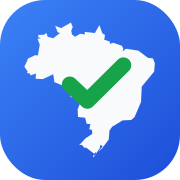
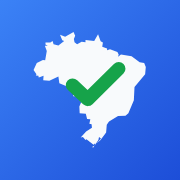
PWA: app instalável (manifesto, ícones maskable/apple, service worker só do casco, página offline, aviso de atualização, convite de instalação Android/iOS, downloads via Compartilhar no iOS standalone, cabeçalho cabe em 360–430px)

diff --git a/pwa.js b/pwa.js
@@ -1,0 +1,150 @@
+/* Cadê Meu Voto — app instalável (PWA): service worker, aviso "Instalar app", aviso de versão nova e
+ * downloads no iPhone com o app aberto pela Tela de Início (modo standalone). */
+(function (global) {
+  'use strict';
+  const LS_DISPENSA = 'cmv-pwa-instalar-dispensado';
+  const DIAS_DISPENSA = 90;
+  const ua = navigator.userAgent || '';
+  const isIOS = /iP(hone|ad|od)/.test(ua) || (navigator.platform === 'MacIntel' && navigator.maxTouchPoints > 1);
+  const isIOSSafari = isIOS && /Safari/.test(ua) && !/CriOS|FxiOS|EdgiOS|OPiOS|GSA\/|Instagram|FBAN|FBAV|Line\//.test(ua);
+  const standalone = () => (global.matchMedia && global.matchMedia('(display-mode: standalone)').matches) || navigator.standalone === true;
+  let promptEvt = null;
+
+  /* ---------------- estilos ---------------- */
+  const css = `
+  .cmv-pwa,.cmv-pwa *,.cmv-upd,.cmv-upd *,.cmv-dl,.cmv-dl *{box-sizing:border-box}
+  .cmv-pwa{position:fixed;left:16px;bottom:calc(16px + env(safe-area-inset-bottom));z-index:80;max-width:380px;display:flex;gap:12px;align-items:center;
+    background:#111E3A;border:1px solid rgba(148,163,184,.28);border-radius:14px;padding:10px 10px 10px 12px;box-shadow:0 12px 32px rgba(0,0,0,.45);color:#F8FAFC;font-size:.9rem;line-height:1.35}
+  .cmv-pwa img{width:36px;height:36px;border-radius:9px;flex:none}
+  .cmv-pwa .t{flex:1;min-width:0}.cmv-pwa .t b{display:block;font-size:.92rem}.cmv-pwa .t span{color:#94A3B8;font-size:.8rem}
+  .cmv-pwa button{font:inherit;cursor:pointer;border-radius:10px;min-height:40px}
+  .cmv-pwa .ok{background:#22C55E;color:#052E16;border:0;font-weight:700;padding:8px 12px;white-space:nowrap}
+  .cmv-pwa .x{background:none;border:0;color:#94A3B8;font-size:1.35rem;line-height:1;width:36px;padding:0}
+  .cmv-pwa.ios{align-items:flex-start}.cmv-pwa.ios ol{margin:6px 0 0;padding-left:18px;color:#CBD5E1;font-size:.84rem}.cmv-pwa.ios li{margin:2px 0}
+  .cmv-pwa.ios svg{width:15px;height:15px;vertical-align:-2px;margin:0 2px}.cmv-pwa.ios li b{display:inline}
+  .cmv-upd{position:fixed;left:50%;transform:translateX(-50%);top:calc(70px + env(safe-area-inset-top));z-index:90;display:flex;gap:10px;align-items:center;
+    background:#1E3A8A;border:1px solid rgba(147,197,253,.4);border-radius:999px;padding:6px 6px 6px 16px;color:#EFF6FF;font-size:.88rem;box-shadow:0 10px 28px rgba(0,0,0,.45)}
+  .cmv-upd button{font:inherit;font-weight:700;border:0;border-radius:999px;background:#F8FAFC;color:#1E3A8A;padding:7px 14px;cursor:pointer;min-height:36px}
+  .cmv-dl{position:fixed;inset:0;z-index:10000;display:flex;align-items:flex-end;justify-content:center;background:rgba(2,6,23,.6);padding:16px;padding-bottom:calc(16px + env(safe-area-inset-bottom))}
+  .cmv-dl>div{width:100%;max-width:420px;background:#1E293B;border:1px solid rgba(148,163,184,.25);border-radius:16px;padding:18px;color:#F8FAFC}
+  .cmv-dl h2{margin:0 0 6px;font-size:1.1rem}.cmv-dl p{margin:0 0 14px;color:#CBD5E1;font-size:.9rem;line-height:1.45;word-break:break-word}
+  .cmv-dl .acts{display:flex;gap:8px}.cmv-dl button{flex:1;min-height:46px;border-radius:12px;font:inherit;font-weight:700;cursor:pointer}
+  .cmv-dl .ok{background:#22C55E;color:#052E16;border:0}.cmv-dl .sec{background:transparent;color:#E2E8F0;border:1px solid rgba(148,163,184,.4)}
+  @media (max-width:860px){.cmv-pwa{left:12px;right:76px;max-width:none;bottom:calc(var(--bn-h,0px) + 12px + env(safe-area-inset-bottom))}}
+  @media (display-mode: standalone){.site-header{padding-top:env(safe-area-inset-top)!important}}
+  html.cmv-standalone .site-header{padding-top:env(safe-area-inset-top)!important}`;
+  function injectCss() { if (document.getElementById('cmv-pwa-css')) return; const s = document.createElement('style'); s.id = 'cmv-pwa-css'; s.textContent = css; document.head.appendChild(s); }
+
+  /* ---------------- service worker + aviso de versão nova ---------------- */
+  function registrarSW() {
+    if (!('serviceWorker' in navigator) || !global.isSecureContext) return;
+    // 1ª visita: o SW assume a página (clients.claim) sem recarregar; só recarrega quando uma versão nova substitui a anterior
+    let recarregando = false; const tinhaControle = !!navigator.serviceWorker.controller;
+    navigator.serviceWorker.addEventListener('controllerchange', () => { if (recarregando || !tinhaControle) return; recarregando = true; location.reload(); });
+    navigator.serviceWorker.register('/sw.js', { scope: '/', updateViaCache: 'none' }).then(reg => {
+      const avisar = w => { if (w && navigator.serviceWorker.controller) mostrarAtualizar(w); };
+      if (reg.waiting) avisar(reg.waiting);
+      reg.addEventListener('updatefound', () => {
+        const w = reg.installing; if (!w) return;
+        w.addEventListener('statechange', () => { if (w.state === 'installed') avisar(w); });
+      });
+      // verifica deploy novo ao voltar para o app (e a cada 30 min com ele aberto)
+      document.addEventListener('visibilitychange', () => { if (document.visibilityState === 'visible') reg.update().catch(() => {}); });
+      setInterval(() => reg.update().catch(() => {}), 30 * 60 * 1000);
+      global.CMV_PWA.registro = reg;
+    }).catch(e => console.warn('service worker', e));
+  }
+  function mostrarAtualizar(worker) {
+    if (document.getElementById('cmv-upd')) return;
+    injectCss();
+    const d = document.createElement('div'); d.id = 'cmv-upd'; d.className = 'cmv-upd'; d.setAttribute('role', 'status');
+    d.innerHTML = '<span>Nova versão do Cadê Meu Voto</span><button type="button">Atualizar</button>';
+    d.querySelector('button').addEventListener('click', () => { d.querySelector('button').disabled = true; worker.postMessage({ tipo: 'ATUALIZAR' }); });
+    document.body.appendChild(d);
+  }
+
+  /* ---------------- "Instalar app" ---------------- */
+  function dispensado() { try { const t = Number(localStorage.getItem(LS_DISPENSA) || 0); return t && (Date.now() - t) < DIAS_DISPENSA * 864e5; } catch (_) { return false; } }
+  function dispensar() { try { localStorage.setItem(LS_DISPENSA, String(Date.now())); } catch (_) {} fecharAviso(); }
+  function fecharAviso() { const e = document.getElementById('cmv-pwa'); if (e) e.remove(); }
+  const ICONE = '<img src="/brand/icon-192.png?v=20261007pwa1" alt="">';
+  function avisoAndroid() {
+    if (!promptEvt || standalone() || dispensado() || document.getElementById('cmv-pwa')) return;
+    injectCss();
+    const d = document.createElement('div'); d.id = 'cmv-pwa'; d.className = 'cmv-pwa'; d.setAttribute('role', 'dialog'); d.setAttribute('aria-label', 'Instalar o app Cadê Meu Voto');
+    d.innerHTML = ICONE + '<div class="t"><b>Instalar app</b><span>Abra o Cadê Meu Voto direto da tela inicial.</span></div>'
+      + '<button type="button" class="ok">Instalar</button><button type="button" class="x" aria-label="Agora não">×</button>';
+    d.querySelector('.ok').addEventListener('click', async () => {
+      const e = promptEvt; promptEvt = null; fecharAviso();
+      if (!e) return;
+      try { e.prompt(); const r = await e.userChoice; if (r && r.outcome === 'dismissed') dispensar(); } catch (_) {}
+    });
+    d.querySelector('.x').addEventListener('click', dispensar);
+    document.body.appendChild(d);
+  }
+  const SVG_COMPARTILHAR = '<svg viewBox="0 0 24 24" fill="none" stroke="#60A5FA" stroke-width="2" stroke-linecap="round" stroke-linejoin="round" aria-hidden="true"><path d="M12 3v12"/><path d="m7 8 5-5 5 5"/><path d="M5 12v7a2 2 0 0 0 2 2h10a2 2 0 0 0 2-2v-7"/></svg>';
+  const SVG_MAIS = '<svg viewBox="0 0 24 24" fill="none" stroke="#60A5FA" stroke-width="2" stroke-linecap="round" aria-hidden="true"><rect x="3" y="3" width="18" height="18" rx="4"/><path d="M12 8v8M8 12h8"/></svg>';
+  function avisoIOS() {
+    if (!isIOSSafari || standalone() || dispensado() || document.getElementById('cmv-pwa')) return;
+    injectCss();
+    const d = document.createElement('div'); d.id = 'cmv-pwa'; d.className = 'cmv-pwa ios'; d.setAttribute('role', 'dialog'); d.setAttribute('aria-label', 'Instalar o app no iPhone');
+    d.innerHTML = ICONE + '<div class="t"><b>Instale o app no iPhone</b><ol>'
+      + '<li>Toque em <b>Compartilhar</b> ' + SVG_COMPARTILHAR + ' na barra do Safari</li>'
+      + '<li>Escolha <b>Adicionar à Tela de Início</b> ' + SVG_MAIS + '</li></ol></div>'
+      + '<button type="button" class="x" aria-label="Agora não">×</button>';
+    d.querySelector('.x').addEventListener('click', dispensar);
+    document.body.appendChild(d);
+  }
+  global.addEventListener('beforeinstallprompt', e => {
+    e.preventDefault(); promptEvt = e;
+    if (document.readyState === 'loading') document.addEventListener('DOMContentLoaded', () => setTimeout(avisoAndroid, 4000));
+    else setTimeout(avisoAndroid, 4000);
+  });
+  global.addEventListener('appinstalled', () => { promptEvt = null; fecharAviso(); try { localStorage.setItem(LS_DISPENSA, String(Date.now() + 3650 * 864e5)); } catch (_) {} });
+
+  /* ---------------- downloads no iPhone (app aberto pela Tela de Início) ----------------
+   * No modo standalone do iOS, <a download> com blob abre uma prévia sem jeito fácil de salvar ou voltar.
+   * Lá usamos o menu Compartilhar do sistema (Salvar em Arquivos, AirDrop, WhatsApp…). Em todo o resto
+   * (Android, computador, Safari normal) o download continua igual. */
+  const precisaCompartilhar = () => isIOS && standalone();
+  async function compartilhar(file) {
+    try { await navigator.share({ files: [file], title: file.name }); return 'compartilhado'; }
+    catch (e) { if (e && e.name === 'AbortError') return 'cancelado'; throw e; }
+  }
+  function baixarNormal(blob, nome) {
+    const url = URL.createObjectURL(blob); const a = document.createElement('a');
+    a.href = url; a.download = nome; a.rel = 'noopener'; document.body.appendChild(a); a.click(); a.remove();
+    setTimeout(() => URL.revokeObjectURL(url), 60000);
+    return 'baixado';
+  }
+  function modalSalvar(file) {
+    return new Promise(resolve => {
+      injectCss();
+      const m = document.createElement('div'); m.className = 'cmv-dl'; m.setAttribute('role', 'dialog'); m.setAttribute('aria-modal', 'true');
+      m.innerHTML = '<div><h2>Seu arquivo está pronto</h2><p></p><div class="acts"><button type="button" class="sec">Fechar</button><button type="button" class="ok">Salvar ou enviar</button></div></div>';
+      m.querySelector('p').textContent = file.name + ' — toque em “Salvar ou enviar” e escolha “Salvar em Arquivos”, WhatsApp ou outro app.';
+      const fim = r => { m.remove(); resolve(r); };
+      m.querySelector('.sec').addEventListener('click', () => fim('fechado'));
+      m.querySelector('.ok').addEventListener('click', async () => {
+        try { fim(await compartilhar(file)); } catch (_) { fim(baixarNormal(file, file.name)); }
+      });
+      document.body.appendChild(m);
+      setTimeout(() => m.querySelector('.ok').focus(), 30);
+    });
+  }
+  /** Salva um arquivo gerado no aparelho (PDF, Excel, JSON). */
+  async function salvar(blob, nome) {
+    if (!precisaCompartilhar()) return baixarNormal(blob, nome);
+    const file = new File([blob], nome, { type: blob.type || 'application/octet-stream' });
+    if (navigator.canShare && navigator.share && navigator.canShare({ files: [file] })) {
+      try { return await compartilhar(file); }        // funciona se o gesto do toque ainda vale
+      catch (_) { return modalSalvar(file); }          // relatório demorou: pede um toque novo
+    }
+    return baixarNormal(blob, nome);
+  }
+
+  global.CMV_PWA = { salvar, precisaCompartilhar, standalone, isIOS, registro: null };
+  if (standalone()) document.documentElement.classList.add('cmv-standalone');
+  const iniciar = () => { registrarSW(); setTimeout(avisoIOS, 4000); };
+  if (document.readyState === 'loading') document.addEventListener('DOMContentLoaded', iniciar); else iniciar();
+})(window);

diff --git a/sw.js b/sw.js
@@ -1,0 +1,91 @@
+/* Cadê Meu Voto — service worker (app instalável).
+ *
+ * O que fica no cache: SÓ o "casco" do app neste domínio (HTML, JS, CSS, fontes, ícones) e a página offline.
+ * O que NUNCA passa por aqui: qualquer outro domínio (api.cademeuvoto.com.br, dados.cademeuvoto.com.br, Turnstile, Stripe…),
+ * pedidos que não sejam GET, e caminhos de dados (/dados/, /mapa/, /fotos/, /tse/). Esses vão direto à rede, com o
+ * cache HTTP normal do navegador. Relatórios (PDF/Excel) são gerados no aparelho e nunca são guardados aqui.
+ *
+ * Atualização: a cada deploy que mude o casco, troque VERSAO. O HTML vem sempre da rede primeiro (nada de app velho);
+ * JS/CSS com ?v= vêm do cache (rápido) e o ?v= novo do index.html força a versão nova. O site mostra "Nova versão —
+ * Atualizar" quando um service worker novo estiver esperando.
+ */
+const VERSAO = '20261007pwa1';
+const CACHE = 'cmv-casco-' + VERSAO;
+const OFFLINE = '/offline.html';
+const PRECACHE = [
+  OFFLINE,
+  '/brand/icon-192.png?v=20261007pwa1',
+  '/brand/icon-512.png?v=20261007pwa1',
+  '/brand/icon-maskable-512.png?v=20261007pwa1',
+  '/apple-touch-icon.png?v=20261007pwa1',
+  '/favicon.svg?v=20261007br1',
+];
+// Só estes tipos de arquivo do próprio domínio entram no cache em tempo de uso.
+const CASCO_RE = /\.(?:js|css|woff2|svg|png|ico|webmanifest|jpg)$/i;
+const NUNCA_RE = /^\/(?:dados|mapa|fotos|tse|api|chat|relatorios|conta|auth|admin|stripe|__dev)(?:\/|$)/;
+
+self.addEventListener('install', ev => {
+  ev.waitUntil(caches.open(CACHE).then(c => c.addAll(PRECACHE.map(u => new Request(u, { cache: 'reload' })))));
+  // Não chama skipWaiting aqui: a página pergunta ao usuário ("Atualizar") e só então trocamos.
+});
+
+self.addEventListener('activate', ev => {
+  ev.waitUntil((async () => {
+    for (const k of await caches.keys()) if (k.startsWith('cmv-') && k !== CACHE) await caches.delete(k);
+    // sem navigation preload: ele usaria o cache HTTP (max-age do Pages) e poderia abrir um index velho/offline
+    if (self.registration.navigationPreload) { try { await self.registration.navigationPreload.disable(); } catch (_) {} }
+    await self.clients.claim();
+  })());
+});
+
+self.addEventListener('message', ev => {
+  if (ev.data && ev.data.tipo === 'ATUALIZAR') self.skipWaiting();
+  if (ev.data && ev.data.tipo === 'VERSAO' && ev.ports[0]) ev.ports[0].postMessage({ versao: VERSAO, cache: CACHE });
+});
+
+self.addEventListener('fetch', ev => {
+  const req = ev.request;
+  if (req.method !== 'GET') return;
+  const url = new URL(req.url);
+  if (url.origin !== self.location.origin) return;           // API, dados (R2), Turnstile etc.: rede direta
+  if (NUNCA_RE.test(url.pathname)) return;
+  if (req.headers.has('authorization') || req.headers.has('range')) return;
+
+  if (req.mode === 'navigate') { ev.respondWith(navegar(ev)); return; }
+  if (url.pathname === '/sw.js') return;
+  if (CASCO_RE.test(url.pathname)) ev.respondWith(casco(req, url));
+});
+
+// HTML: sempre da rede, revalidando (cache:'no-cache' → 304 barato), para nunca abrir versão velha.
+// Sem rede: página offline amigável.
+async function navegar(ev) {
+  try {
+    return await fetch(ev.request, { cache: 'no-cache' });
+  } catch (_) {
+    const c = await caches.open(CACHE);
+    return (await c.match(OFFLINE)) || new Response('<h1>Sem conexão</h1>', { status: 503, headers: { 'Content-Type': 'text/html; charset=utf-8' } });
+  }
+}
+
+// Casco: com ?v= → cache primeiro (o ?v= muda a cada deploy); sem ?v= → usa o cache e atualiza em segundo plano.
+async function casco(req, url) {
+  const c = await caches.open(CACHE);
+  const hit = await c.match(req);
+  const versionado = url.searchParams.has('v');
+  const daRede = fetch(req).then(async r => {
+    if (r.ok && r.type === 'basic' && !/no-store|private/i.test(r.headers.get('Cache-Control') || '')) {
+      await c.put(req, r.clone());
+      if (versionado) limparVersoesAntigas(c, url);
+    }
+    return r;
+  });
+  if (hit) { if (!versionado) daRede.catch(() => {}); return hit; }
+  try { return await daRede; } catch (e) { return hit || Response.error(); }
+}
+
+async function limparVersoesAntigas(c, url) {
+  for (const k of await c.keys()) {
+    const u = new URL(k.url);
+    if (u.pathname === url.pathname && u.search !== url.search && !PRECACHE.includes(u.pathname + u.search)) await c.delete(k);
+  }
+}

diff --git a/offline.html b/offline.html
@@ -1,0 +1,53 @@
+<!DOCTYPE html>
+<html lang="pt-BR">
+<head>
+<meta charset="UTF-8">
+<meta name="viewport" content="width=device-width, initial-scale=1.0, viewport-fit=cover">
+<meta name="theme-color" content="#0A1428">
+<meta name="robots" content="noindex">
+<title>Sem conexão — Cadê Meu Voto</title>
+<link rel="icon" href="/favicon.svg?v=20261007br1" type="image/svg+xml">
+<style>
+  :root { color-scheme: dark; }
+  html, body { height: 100%; }
+  body { margin: 0; background: #0A1428; color: #F8FAFC; font-family: system-ui, -apple-system, "Segoe UI", Roboto, Arial, sans-serif;
+    display: flex; align-items: center; justify-content: center; padding: calc(24px + env(safe-area-inset-top)) 20px calc(24px + env(safe-area-inset-bottom)); box-sizing: border-box; }
+  main { max-width: 420px; text-align: center; }
+  img { width: 88px; height: 88px; border-radius: 22px; box-shadow: 0 12px 40px rgba(37,99,235,.35); }
+  h1 { font-size: 1.45rem; margin: 22px 0 8px; letter-spacing: -.01em; }
+  p { color: #CBD5E1; line-height: 1.5; margin: 8px 0; font-size: .98rem; }
+  .dica { color: #94A3B8; font-size: .86rem; }
+  button { margin-top: 20px; min-height: 48px; padding: 12px 22px; border-radius: 12px; border: 0; background: #22C55E; color: #052E16;
+    font: inherit; font-weight: 700; font-size: 1rem; cursor: pointer; }
+  button:focus-visible { outline: 3px solid #93C5FD; outline-offset: 3px; }
+  .status { margin-top: 14px; min-height: 1.3em; font-size: .86rem; color: #86EFAC; }
+</style>
+</head>
+<body>
+<main>
+  <img src="/brand/icon-192.png?v=20261007pwa1" alt="" width="88" height="88">
+  <h1>Você está sem internet</h1>
+  <p>O Cadê Meu Voto precisa de conexão para mostrar os resultados oficiais do TSE, os mapas e os relatórios.</p>
+  <p class="dica">Confira o Wi-Fi ou os dados móveis. Assim que a conexão voltar, a página abre sozinha.</p>
+  <button type="button" id="tentar">Tentar de novo</button>
+  <div class="status" id="status" aria-live="polite"></div>
+</main>
+<script>
+  (function () {
+    var st = document.getElementById('status'), timer = null;
+    function voltar() { st.textContent = 'Conectando…'; location.reload(); }
+    // o evento "online" chega antes da rede funcionar de verdade: testa com um HEAD (não passa pelo cache do SW)
+    function testar(espera) {
+      clearTimeout(timer);
+      fetch(location.pathname + '?ping=' + Date.now(), { method: 'HEAD', cache: 'no-store' })
+        .then(function (r) { if (r.ok) { st.textContent = 'Conexão de volta. Abrindo…'; voltar(); } else throw 0; })
+        .catch(function () { timer = setTimeout(function () { testar(Math.min(espera * 2, 15000)); }, espera); });
+    }
+    document.getElementById('tentar').addEventListener('click', voltar);
+    window.addEventListener('online', function () { st.textContent = 'Conexão de volta? Verificando…'; testar(1000); });
+    if (navigator.onLine) timer = setTimeout(function () { testar(3000); }, 3000);
+    setInterval(function () { if (navigator.onLine && !document.hidden) testar(3000); }, 15000);
+  })();
+</script>
+</body>
+</html>

diff --git a/index.html b/index.html
@@ -23,9 +23,15 @@
 <link rel="icon" href="favicon-32.png?v=20261007br1" sizes="32x32" type="image/png">
 <link rel="icon" href="favicon-16.png?v=20261007br1" sizes="16x16" type="image/png">
 <link rel="shortcut icon" href="favicon.ico?v=20261007br1">
-<link rel="apple-touch-icon" href="apple-touch-icon.png?v=20261007br1" sizes="180x180">
-<link rel="manifest" href="site.webmanifest?v=20261007br1">
+<link rel="apple-touch-icon" href="apple-touch-icon.png?v=20261007pwa1" sizes="180x180">
+<link rel="manifest" href="site.webmanifest?v=20261007pwa1">
 <meta name="theme-color" content="#0A1428">
+<meta name="mobile-web-app-capable" content="yes">
+<meta name="apple-mobile-web-app-capable" content="yes">
+<meta name="apple-mobile-web-app-title" content="CadeMeuVoto">
+<meta name="apple-mobile-web-app-status-bar-style" content="black-translucent">
+<meta name="application-name" content="Cadê Meu Voto">
+<meta name="format-detection" content="telephone=no">
 <link rel="preload" href="fonts/InterVariable.woff2" as="font" type="font/woff2" crossorigin>
 <title>Cadê Meu Voto — Eleições 2026 em todo o Brasil, até a seção eleitoral</title>
 <meta name="description" content="Resultados oficiais do TSE das Eleições 2026 nos 26 estados e no Distrito Federal: governador, senado, presidente e deputados. Mapa de votação até a seção eleitoral, comparativos e relatórios em PDF.">
@@ -986,6 +992,14 @@
     .site-header #status.status { padding: 6px 10px; }
     #status-curto { max-width: 110px; overflow: hidden; text-overflow: ellipsis; }
   }
+  /* celulares de 360–430px (iPhone/Pixel): o cabeçalho cabia só com zoom; status vira só o ponto colorido (detalhes no toque) */
+  @media (max-width: 430px) {
+    .hdr-inner { gap: 8px; }
+    .hdr-tools { gap: 6px; min-width: 0; }
+    #status-curto { display: none; }
+    .site-header #status.status { padding: 6px; min-width: 36px; justify-content: center; }
+  }
+  @media (max-width: 340px) { .brand-word { display: none; } }
 
 </style>
 </head>
@@ -1492,8 +1506,9 @@
 
 <script src="vendor/jspdf.umd.min.js?v=20261006e2"></script>
 <script src="vendor/jspdf.plugin.autotable.min.js?v=20261006e2"></script>
-<script src="assinatura.js?v=20261007assin1"></script>
-<script src="relatorios.js?v=20261007assin1"></script>
+<script src="pwa.js?v=20261007pwa1"></script>
+<script src="assinatura.js?v=20261007pwa1"></script>
+<script src="relatorios.js?v=20261007pwa1"></script>
 <script>
 /* =====================================================================
    CONFIGURAÇÃO — edite aqui.

diff --git a/relatorios.js b/relatorios.js
@@ -1512,7 +1512,9 @@
     return comCota(spec, ['pdf'], async (s) => {
       const doc = await generate(s);
       const fname = relTag(s) + '.pdf';
-      doc.save(fname);
+      // iPhone com o app aberto pela Tela de Início: menu Compartilhar (Salvar em Arquivos); no resto, download normal
+      if (global.CMV_PWA && global.CMV_PWA.precisaCompartilhar()) await global.CMV_PWA.salvar(doc.output('blob'), fname);
+      else doc.save(fname);
       return { doc, filename: fname, spec: s };
     });
   }
@@ -1588,7 +1590,10 @@
     return comCota(spec, ['xlsx'], async (s) => {
       const { X, wb } = await buildExcelBook(s);
       const fname = relTag(s) + '.xlsx';
-      X.writeFile(wb, fname, { compression: true });
+      if (global.CMV_PWA && global.CMV_PWA.precisaCompartilhar()) {
+        const buf = X.write(wb, { bookType: 'xlsx', type: 'array', compression: true });
+        await global.CMV_PWA.salvar(new Blob([buf], { type: 'application/vnd.openxmlformats-officedocument.spreadsheetml.sheet' }), fname);
+      } else X.writeFile(wb, fname, { compression: true });
       return { filename: fname, spec: s };
     });
   }
@@ -1988,10 +1993,11 @@
       + '<h3 style="margin:0 0 8px;color:#7dd3fc">' + title + '</h3>'
       + bodyHtml
       + '<div class="rel-pdf-preview">'
-      + '<div class="rel-pdf-actions">'
+      // no iPhone com o app instalado, links para blob abrem uma tela sem volta: lá fica só a prévia embutida
+      + ((global.CMV_PWA && global.CMV_PWA.precisaCompartilhar()) ? '' : ('<div class="rel-pdf-actions">'
       + '<a class="btn-mapa" href="' + pdfUrl + '" download="previa-relatorio.pdf">Baixar PDF da prévia</a>'
       + '<a class="btn-mapa" href="' + pdfUrl + '" target="_blank" rel="noopener">Abrir PDF</a>'
-      + '</div>'
+      + '</div>'))
       + '<div class="rel-pdf-frame-wrap">'
       + '<object class="rel-pdf-frame" data="' + pdfUrl + '#toolbar=1&navpanes=0" type="application/pdf" title="Prévia do PDF">'
       + '<iframe class="rel-pdf-frame" src="' + pdfUrl + '#toolbar=1" title="Prévia do PDF"></iframe>'

diff --git a/assinatura.js b/assinatura.js
@@ -384,8 +384,9 @@
     const po = v.querySelector('[data-portal]');
     if (po) po.addEventListener('click', async () => { try { location.href = (await api('/stripe/portal', { method: 'POST', body: {} })).url; } catch (e) { msgPlano.textContent = e.message; msgPlano.className = 'cmv-msg erro'; } });
     v.querySelector('[data-exportar]').addEventListener('click', async () => {
-      try { const blob = await api('/conta/dados'); const url = URL.createObjectURL(blob instanceof Blob ? blob : new Blob([JSON.stringify(blob, null, 2)], { type: 'application/json' }));
-        const a2 = document.createElement('a'); a2.href = url; a2.download = 'meus-dados-cademeuvoto.json'; document.body.appendChild(a2); a2.click(); a2.remove(); setTimeout(() => URL.revokeObjectURL(url), 2000); }
+      try { const dados = await api('/conta/dados'); const blob = dados instanceof Blob ? dados : new Blob([JSON.stringify(dados, null, 2)], { type: 'application/json' });
+        if (global.CMV_PWA) await global.CMV_PWA.salvar(blob, 'meus-dados-cademeuvoto.json');
+        else { const url = URL.createObjectURL(blob); const a2 = document.createElement('a'); a2.href = url; a2.download = 'meus-dados-cademeuvoto.json'; document.body.appendChild(a2); a2.click(); a2.remove(); setTimeout(() => URL.revokeObjectURL(url), 2000); } }
       catch (e) { msgPriv.textContent = e.message; msgPriv.className = 'cmv-msg erro'; }
     });
     v.querySelector('[data-sair]').addEventListener('click', sair);
